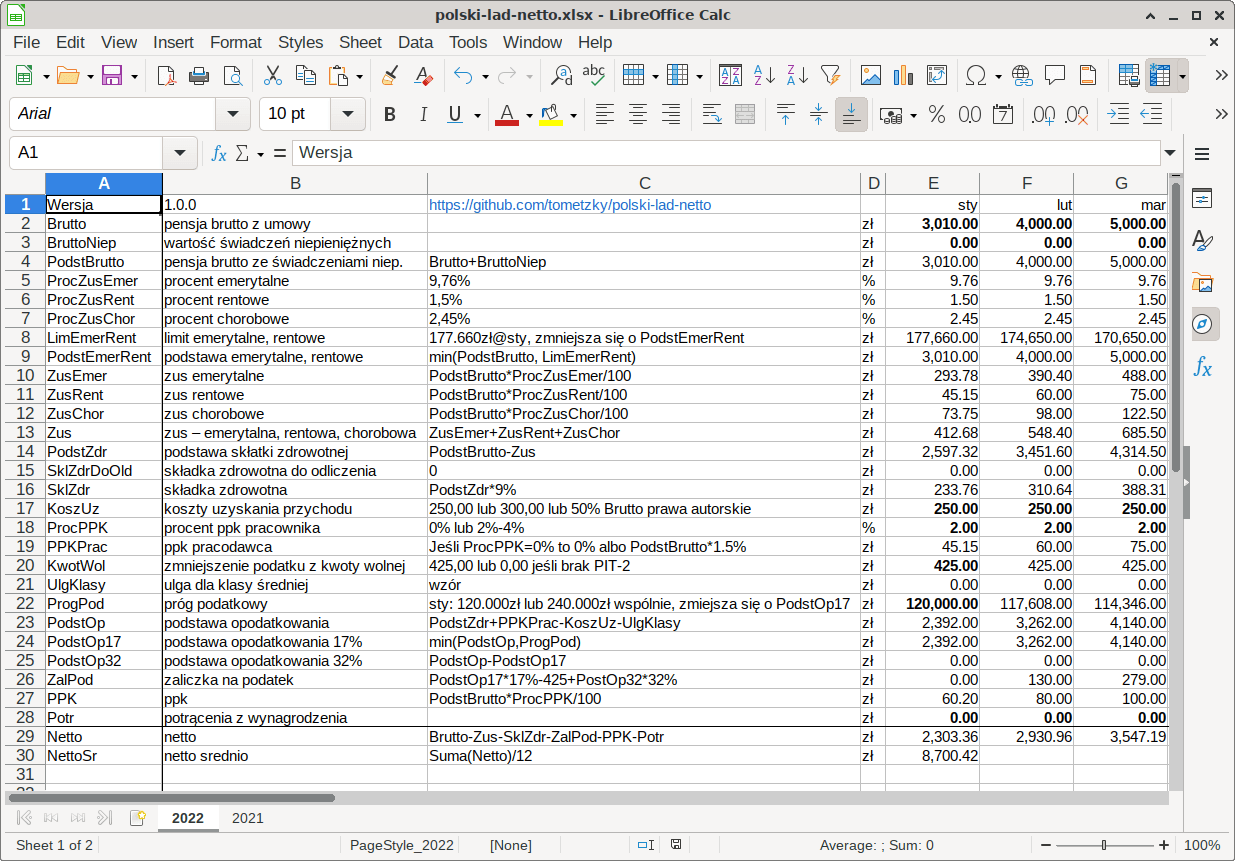
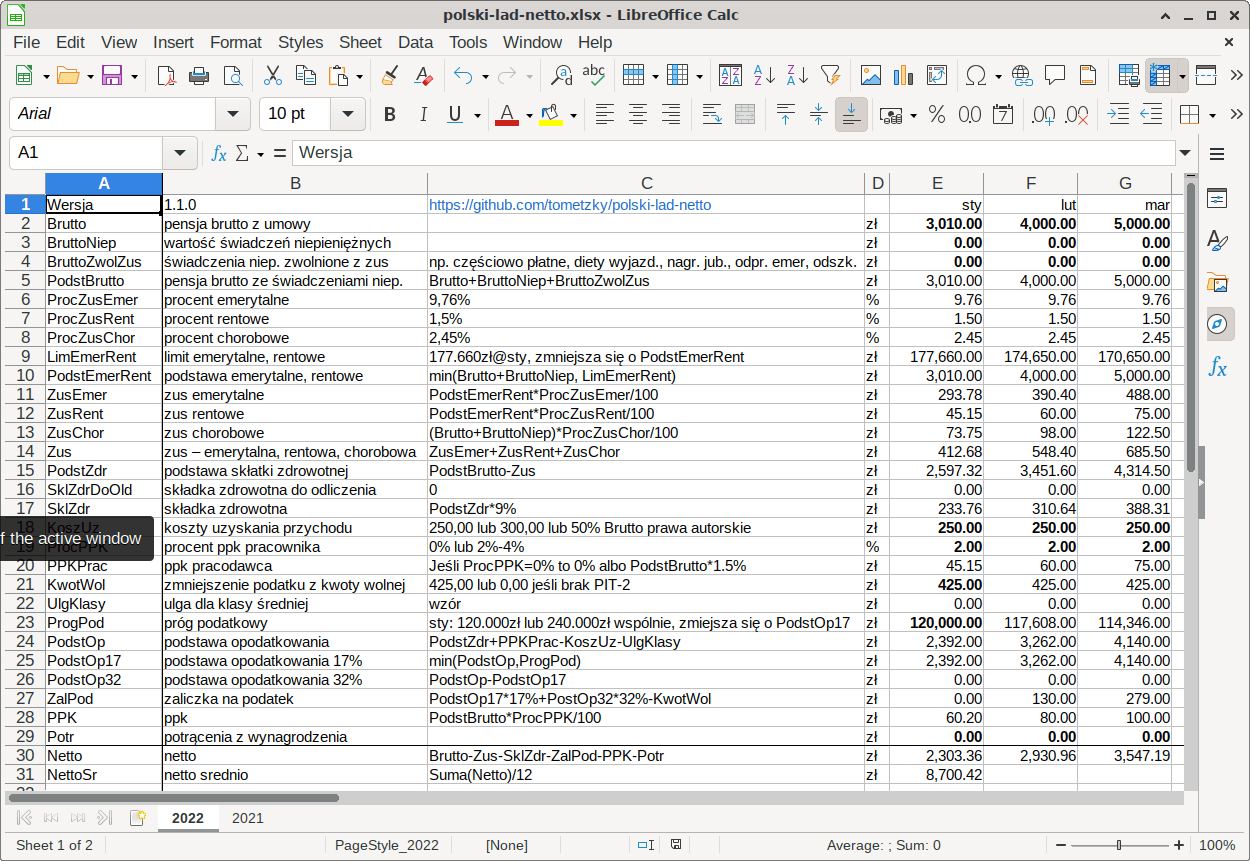
fix #2 obsługa świadczeń wyłączonych z podstawy ZUS

diff --git a/README.md b/README.md
@@ -8,6 +8,7 @@ Kalkulator stworzony dlatego, że mnóstwo kalkulatorów dostępnych w Interneci
 nieprawidłowe wyliczenia. Ponadto, w przeciwieństwie do kalkulatorów internetowych, które znalazłem, pozwala na:
 * podwojenie progu podatkowego przy wspólnym rozliczaniu;
 * dodanie niepieniężnego wynagrodzenia (np. pakiet medyczny, karta sportowa itp.);
+* dodanie wynagrodzenia niepodlegającego składkom ZUS (np. nagroda jubileuszowa, częściowo płatne wynikające z regulaminu itp.);
 * wpisanie podwyższonych kosztów uzyskania przychodu (50% od części pensji, przy przekazywaniu pracodawcy praw autorskich);
 * włączanie lub wyłączanie kwoty wolnej (np. jak się ma rentę lub emeryturę lub zatrudnienie u innego pracodawcy);
 * włączanie lub wyłączanie PPK;
